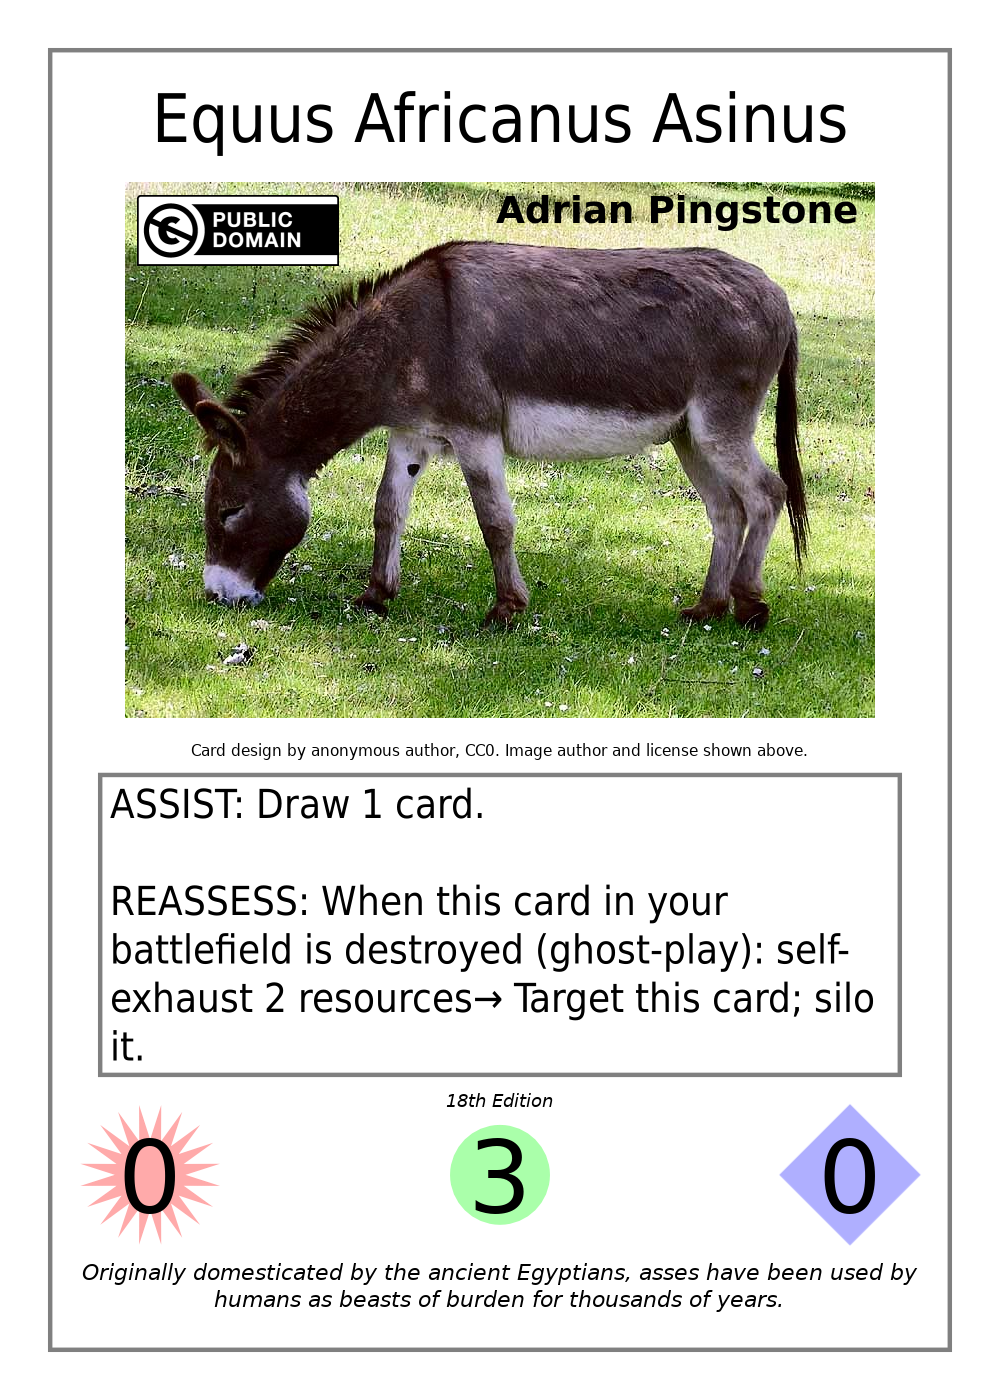
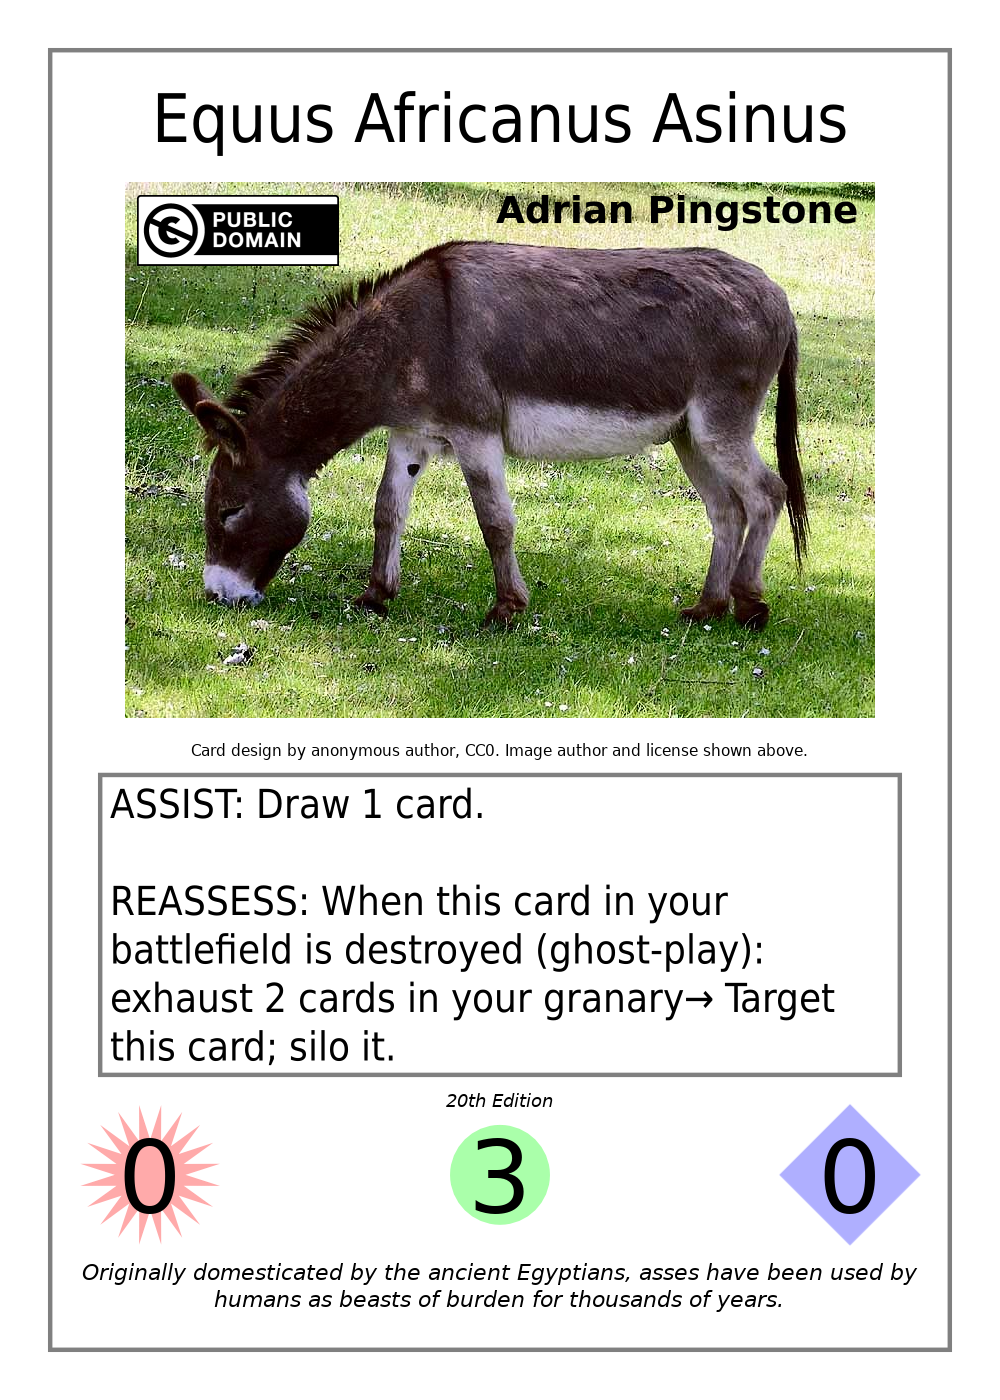
Updated the ass example

Changed region(s): [[0.124, 0.645, 0.868, 0.7679]]

diff --git a/examples.html b/examples.html
@@ -245,7 +245,7 @@
         </ol>
 
         <h3 id="equus-africanus-asinus">Minion: Equus Africanus Asinus</h3>
-        <img class="example" src="images/build-examples/equus_africanus_asinus.png" alt="Equus Africanus Asinus: level 3 minion with 0 SP, 0 HP, and 2 abilities: &ldquo;ASSIST&rdquo; and &ldquo;REASSESS&rdquo;. ASSIST: &ldquo;Draw 1 card.&rdquo; REASSESS: &ldquo;When this on-field minion is destroyed (ghost-play): self-exhaust 2 resources→ Target this card; silo it.&rdquo;">
+        <img class="example" src="images/build-examples/equus_africanus_asinus.png" alt="Equus Africanus Asinus: level 3 minion with 0 SP, 0 HP, and 2 abilities: &ldquo;ASSIST&rdquo; and &ldquo;REASSESS&rdquo;. ASSIST: &ldquo;Draw 1 card.&rdquo; REASSESS: &ldquo;When this on-field minion is destroyed (ghost-play): exhaust 2 cards in your granary→ Target this card; silo it.&rdquo;">
         <p>This minion has no SP or HP, but has two abilities, one of which has a non-standard activation condition and an activation cost. The following steps recreate this minion:</p>
         <ol>
             <li>Begin with the minion's level set to 0.</li>
@@ -316,8 +316,8 @@
             </li>
             <li>REASSESS's sub-ability text is the target selection followed by the effect. In this case, we get: &ldquo;Target this card; silo the targets.&rdquo;</li>
             <li>Since only 1 card can be targeted by REASSESS's sub-ability, following the card building guide's recommendations, we change the plural &ldquo;the targets&rdquo; in the effect to the singular &ldquo;it&rdquo;. This gives us: &ldquo;Target this card; silo it.&rdquo;</li>
-            <li>In this case, we want to include an activation cost in REASSESS. Select the desired activation cost from <a href="cardbuilding.html#costs">Card Building Guide: Activation Costs</a>. In this case, it's: &ldquo;self-exhaust <var>x</var> resources→&rdquo;</li>
-            <li>Since the activation cost has a variable <var>x</var>, replace that variable with a number. In this case, we choose the number 2. This gives us: &ldquo;self-exhaust 2 resources→&rdquo;</li>
+            <li>In this case, we want to include an activation cost in REASSESS. Select the desired activation cost from <a href="cardbuilding.html#costs">Card Building Guide: Activation Costs</a>. In this case, it's: &ldquo;exhaust <var>x</var> cards in your granary→&rdquo;</li>
+            <li>Since the activation cost has a variable <var>x</var>, replace that variable with a number. In this case, we choose the number 2. This gives us: &ldquo;exhaust 2 cards in your granary→&rdquo;</li>
             <li>Check the activation cost's level decrease formula. In this case, the formula is
                 <math display="inline">
                     <mfrac>
@@ -345,7 +345,7 @@
                 We can now solve the formula; doing so, we get 1 and therefore subtract 1 from REASSESS's level, bringing it to 1.
             </li>
             <li>Add REASSESS's level (1) to the minion's level, bringing it to 3.</li>
-            <li>REASSESS's ability text is its name (&ldquo;REASSESS&rdquo;), followed by a colon, followed by its activation condition, followed by its activation cost, followed by its sub-ability text. In this case, we get: &ldquo;REASSESS: When this on-field minion is destroyed (ghost-play): self-exhaust 2 resources→ Target this card; silo it.&rdquo;</li>
+            <li>REASSESS's ability text is its name (&ldquo;REASSESS&rdquo;), followed by a colon, followed by its activation condition, followed by its activation cost, followed by its sub-ability text. In this case, we get: &ldquo;REASSESS: When this on-field minion is destroyed (ghost-play): exhaust 2 cards in your granary→ Target this card; silo it.&rdquo;</li>
             <li>The minion's ability text is the ability text of all abilities (ASSIST and REASSESS in this case), each on a separate paragraph.</li>
             <li>The minion's final level in this example is 3.</li>
         </ol>
